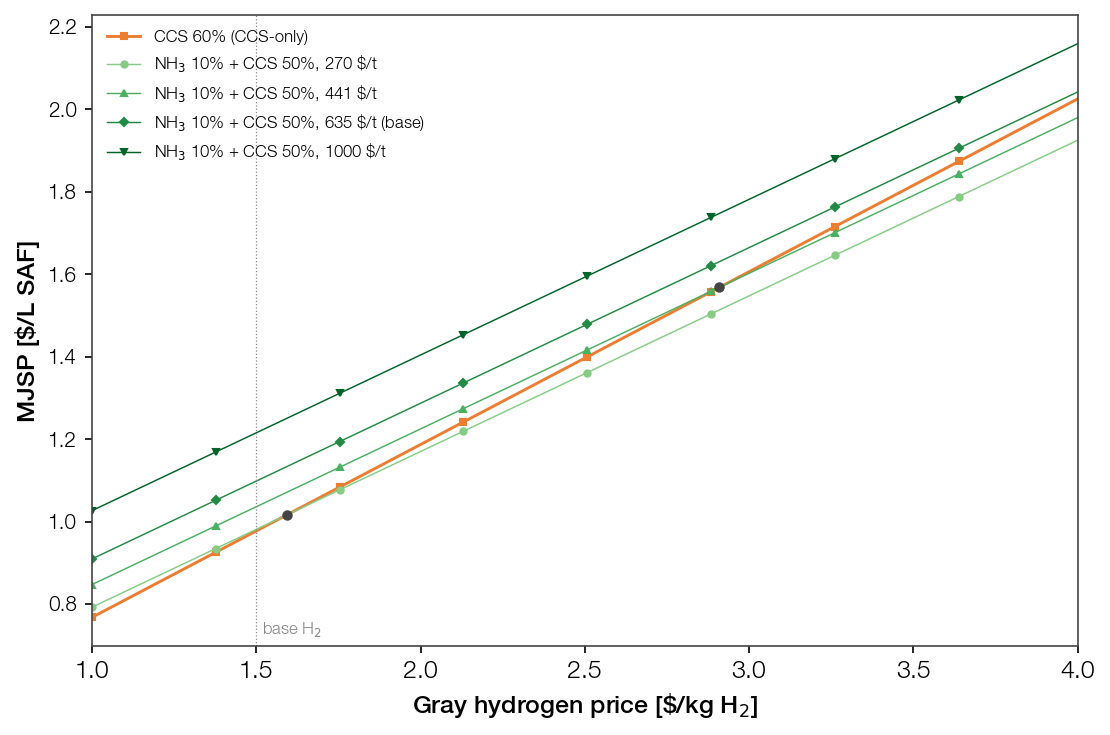
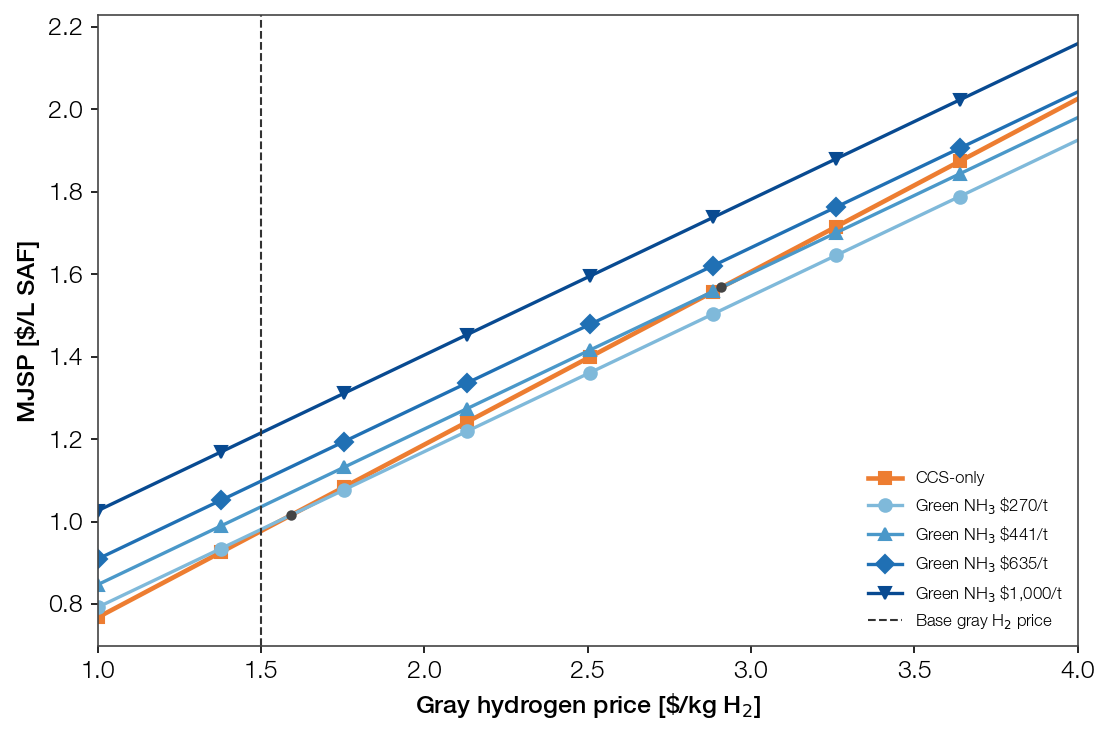
@ Crossover panel: blue gradient for NH3 price lines

diff --git a/plot_ammonia_crossover.py b/plot_ammonia_crossover.py
@@ -65,11 +65,11 @@ def draw(ax: plt.Axes) -> None:
     ax.plot(h, mjsp_ccs(h), color='#ed7d31', lw=2.2, marker='s', ms=6, markevery=25,
             label='CCS-only')
 
-    # one NH3 line per ammonia price; green shades go light (cheap) -> dark (dear),
+    # one NH3 line per ammonia price; blue shades go light (cheap) -> dark (dear),
     # a distinct marker shape per line so series read apart from colour alone
-    greens = plt.cm.Greens(np.linspace(0.45, 0.9, len(AMM_LINES)))
+    blues = plt.cm.Blues(np.linspace(0.45, 0.9, len(AMM_LINES)))
     nh3_markers = ('o', '^', 'D', 'v')   # one per AMM_LINES entry
-    for pa, col, mk in zip(AMM_LINES, greens, nh3_markers):
+    for pa, col, mk in zip(AMM_LINES, blues, nh3_markers):
         ax.plot(h, mjsp_nh3(h, pa), color=col, lw=1.6, marker=mk, ms=6, markevery=25,
                 label=f'Green NH$_3$ \\${pa * LB_TO_T:,.0f}/t')
         # mark the crossover with CCS 60% when it falls inside the plotted H2 range
